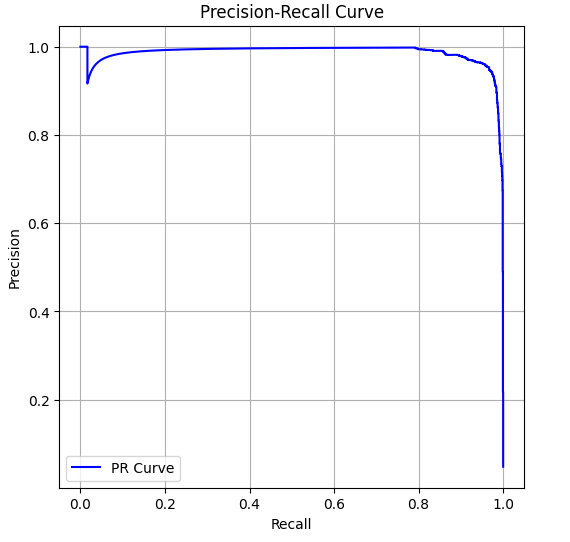
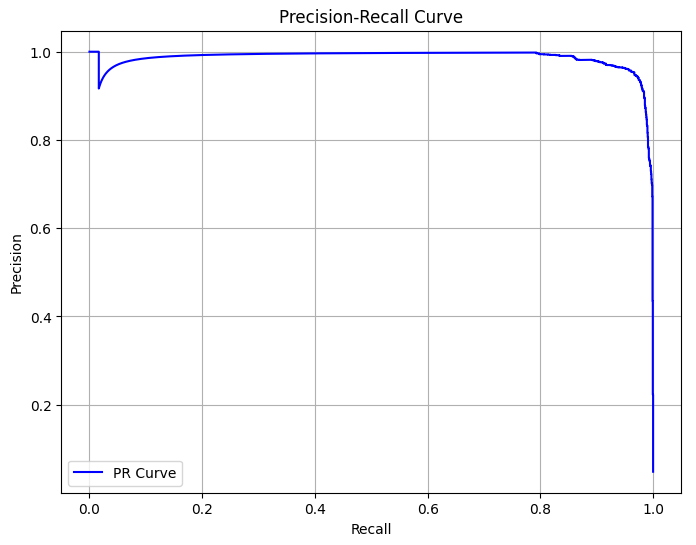
updated VAE

diff --git a/NetworkTrafficAnomalyDetectionVAE/README.md b/NetworkTrafficAnomalyDetectionVAE/README.md
@@ -28,7 +28,7 @@ A Variational Autoencoder was used to learn the normal HTTP traffic distribution
   - Outputs mean (`μ`) and log variance (`logvar`) for latent space representation.
 
 - **Latent Space Sampling**:
-  - A reparameterization trick was used:  
+  - A reparameterization was used:  
     `z = μ + ε * exp(0.5 * logvar)`, where `ε` is sampled from a standard normal distribution.
 
 - **Decoder**:
@@ -51,15 +51,17 @@ A Variational Autoencoder was used to learn the normal HTTP traffic distribution
 - **Dropout Probability**: 0.2
 - **Number of Latent Dimensions**: 8 (iterated from 2-16)
 
----
+The best-performing model on the training set, based on validation loss, was saved and loaded for use on the test set. The training progress can be seen below.
+![Loss Curve](TrainingProgress.png)
+
 
 ## Evaluation Metrics
-The best-performing model on the training set, based on validation loss, was saved and loaded for use on the test set. Anomalies were detected in the test set using **reconstruction loss**. Various percentile thresholds were tested to optimize detection performance.
+Anomalies were detected in the test set using **reconstruction loss**. Various percentile thresholds were tested to optimize detection performance.
 
 - **Precision-Recall Curve**: Used to determine the optimal threshold for classifiying a data point as an anomaly.
 ![Precision-Recall Curve](PRCurve.png)
 
-- **Final Threshold**: Selected based on the best F1-score.
+- **Final Threshold**: 69.2557 selected based on the best F1-score.
 
 ### Final Performance:
 - **Precision**: 0.9529
